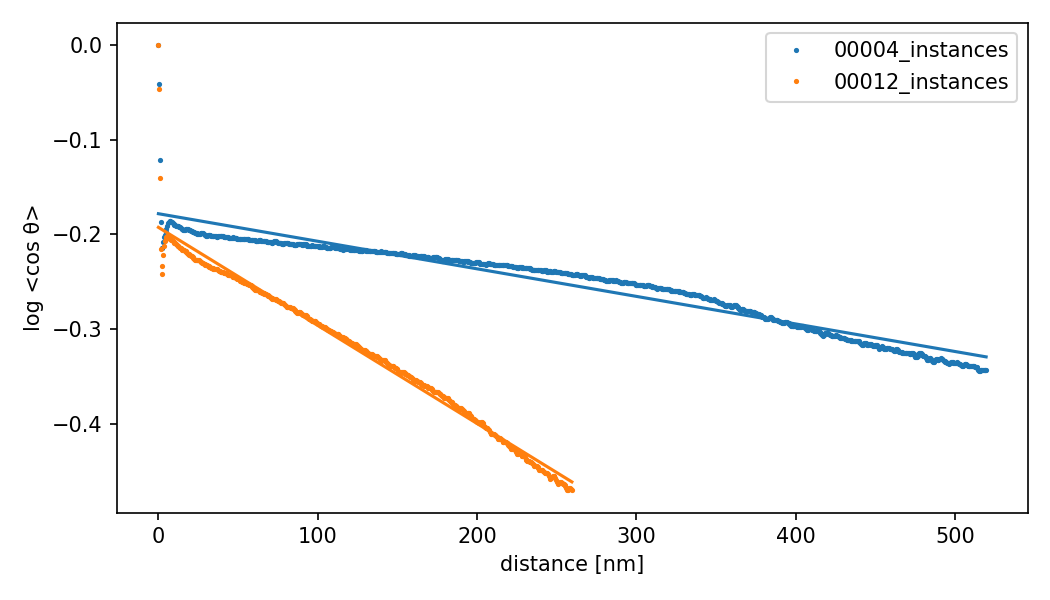
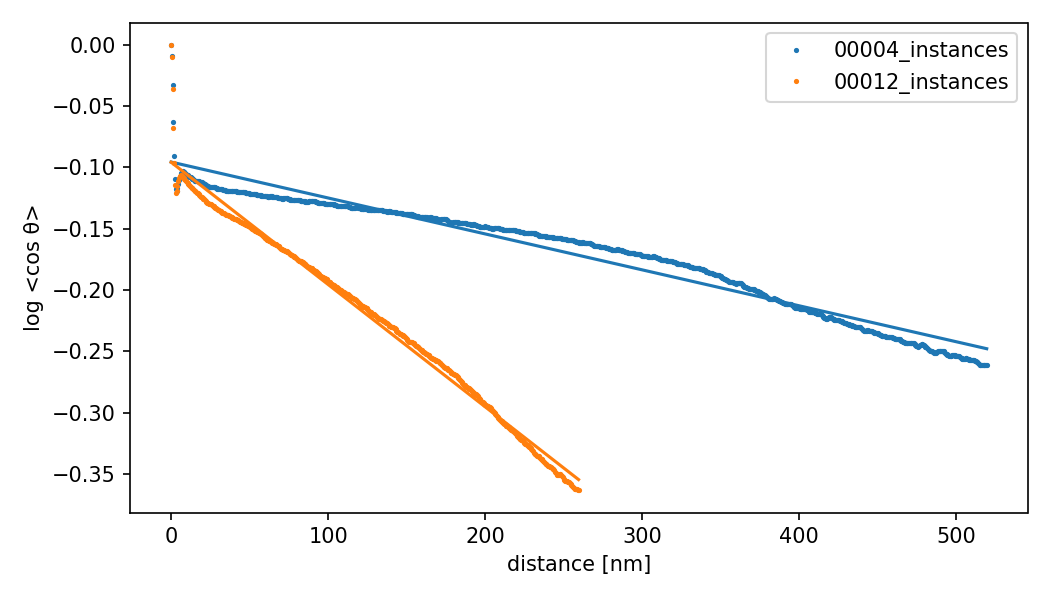
p_length results

diff --git a/experiments/persistence_length/persistence_length.py b/experiments/persistence_length/persistence_length.py
@@ -1,0 +1,201 @@
+"""Measure the persistence length of filaments.
+
+Based on TARDIS format for instance point clouds:  (ID, X [A], Y [A], Z [A]).
+
+Based on the method of Bäuerlein et al. (Cell 2017).
+Reference implementation: https://github.com/FJBauerlein/Huntington
+"""
+
+import argparse
+import csv
+from pathlib import Path
+
+import numpy as np
+import pandas as pd
+import matplotlib.pyplot as plt
+
+def parse_args():
+    parser = argparse.ArgumentParser()
+    parser.add_argument("--data_dir", type=str, required=True)
+    parser.add_argument("--results_dir", type=str, required=True)
+    parser.add_argument("--pattern", type=str, default="*_instances.csv")
+    parser.add_argument("--sampling_dist", type=float, default=5.0)
+    parser.add_argument("--min_length", type=float, default=350.0)
+    parser.add_argument("--tangent_window", type=int, default=5)
+    parser.add_argument("--tag", type=str, default=None)
+    return parser.parse_args()
+
+def load_filaments(csv_path):
+    """
+    Load filament instances CSV with columns:
+    ID, X [A], Y [A], Z [A]
+    """
+    df = pd.read_csv(csv_path)
+
+    filaments = []
+    for fid, group in df.groupby("ID"):
+        coords = group[["X", "Y", "Z"]].to_numpy(dtype=np.float64)
+
+        filaments.append(coords)
+
+    return filaments
+
+def resample_filaments(filaments, sampling_dist, min_length):
+    resampled = []
+    filament_lengths = []
+    for coords in filaments:
+        segment_lengths = np.linalg.norm(np.diff(coords, axis=0), axis=1)
+        s = np.concatenate([[0.0], np.cumsum(segment_lengths)])
+        if s[-1] < min_length:
+            continue
+        filament_lengths.append(s[-1])
+        
+        s_new = np.arange(0, s[-1], sampling_dist)
+
+        x_new = np.interp(s_new, s, coords[:, 0])
+        y_new = np.interp(s_new, s, coords[:, 1])
+        z_new = np.interp(s_new, s, coords[:, 2])
+
+        resampled.append(np.vstack([x_new, y_new, z_new]).T)
+
+    return resampled, np.array(filament_lengths)
+
+def unit_tangents(coords, window):
+    """Unit tangent per point, averaged over `window` adjacent points to reduce aliasing."""
+    t = np.gradient(coords, axis=0)
+    if window > 1:
+        kernel = np.ones(window) / window
+        t = np.column_stack([np.convolve(t[:, d], kernel, mode="same") for d in range(t.shape[1])])
+    norms = np.linalg.norm(t, axis=1, keepdims=True)
+    return t / np.where(norms == 0.0, 1.0, norms)
+
+
+def tangent_autocorr(filaments, max_lag=None, window=5):
+    tangents = [unit_tangents(c, window) for c in filaments if len(c) >= 2]
+
+    if max_lag is None:
+        max_lag = max(len(t) - 1 for t in tangents)
+
+    sums = np.zeros(max_lag + 1)
+    counts = np.zeros(max_lag + 1)
+    for t in tangents:
+        for k in range(min(max_lag, len(t) - 1) + 1):
+            dots = np.einsum("ij,ij->i", t[: len(t) - k], t[k:])
+            sums[k] += dots.sum()
+            counts[k] += dots.size
+
+    corr = np.full(max_lag + 1, np.nan)
+    valid = counts > 0
+    corr[valid] = sums[valid] / counts[valid]
+
+    return corr
+
+def fit_persistence_length(corr, sampling_dist):
+    """Fit log<cos θ> = ln(A) - s / Lp with a free intercept. Return (Lp in A, R², curve);
+    Lp NaN if degenerate. curve is (s, log<cos θ>, fitted line) for plotting."""
+    lags = np.arange(len(corr))
+    s = lags * sampling_dist
+    valid = np.isfinite(corr) & (corr > 0.0)
+    s = s[valid]
+    y = np.log(corr[valid])
+    if s.size < 2:
+        return np.nan, np.nan, None
+
+    slope, intercept = np.polyfit(s, y, 1)
+    yhat = slope * s + intercept
+    ss_tot = np.sum((y - np.mean(y)) ** 2)
+    r2 = 1.0 - np.sum((y - yhat) ** 2) / ss_tot if ss_tot > 0 else np.nan
+    lp = -1.0 / slope if slope < 0.0 else np.nan
+    return lp, r2, (s, y, yhat)
+
+
+def plot_fits(curves, out_path):
+    fig, ax = plt.subplots(figsize=(7, 4))
+    for sample, s, y, yhat in curves:
+        line = ax.plot(s / 10.0, y, ".", ms=3, label=sample)[0]
+        ax.plot(s / 10.0, yhat, "-", color=line.get_color())
+    ax.set_xlabel("distance [nm]")
+    ax.set_ylabel("log <cos θ>")
+    ax.legend()
+    fig.tight_layout()
+    fig.savefig(out_path, dpi=150)
+    plt.close(fig)
+
+
+def filament_length(coords):
+    if len(coords) < 2:
+        return 0.0
+    return float(np.linalg.norm(np.diff(coords, axis=0), axis=1).sum())
+
+
+def plot_length_distribution(lengths_by_sample, out_path):
+    fig, ax = plt.subplots(figsize=(7, 4))
+    for sample, lengths in lengths_by_sample.items():
+        lengths_nm = np.asarray(lengths, dtype=np.float64) / 10.0
+        ax.hist(lengths_nm, bins=60, histtype="step",
+                label=f"{sample} (n={len(lengths_nm)})")
+    ax.set_xlabel("filament length [nm]")
+    ax.set_ylabel("count")
+    ax.legend()
+    fig.tight_layout()
+    fig.savefig(out_path, dpi=150)
+    plt.close(fig)
+
+
+def main():
+    args = parse_args()
+    results_dir = Path(args.results_dir)
+    results_dir.mkdir(parents=True, exist_ok=True)
+
+    data_dir = Path(args.data_dir)
+    data_paths = sorted(data_dir.glob(args.pattern))
+    rows = []
+    curves = []
+    lengths_by_sample = {}
+    for data_path in data_paths:
+        filaments = load_filaments(data_path)
+        lengths_by_sample[data_path.stem] = [filament_length(c) for c in filaments]
+
+        filaments, lengths = resample_filaments(filaments, args.sampling_dist, args.min_length)
+        if len(filaments) == 0:
+            print(f"{data_path.name}: no filaments above the min length of {args.min_length:.0f} A.")
+            continue
+
+        p90 = float(np.percentile(lengths, 90))
+        max_lag = int(p90 / args.sampling_dist)
+
+        corr = tangent_autocorr(filaments, max_lag, args.tangent_window)
+        lp, r2, curve = fit_persistence_length(corr, args.sampling_dist)
+        if curve is not None:
+            curves.append((data_path.stem, *curve))
+
+        rows.append({
+            "sample": data_path.stem,
+            "n_filaments": len(filaments),
+            "mean_length": float(np.mean(lengths)),
+            "p90_length": p90,
+            "persistence_length": lp,
+            "r_squared": r2,
+        })
+        lp_um = lp / 10000.0 if np.isfinite(lp) else np.nan
+        print(f"{data_path.name}: {len(filaments)} filaments, Lp = {lp_um:.2f} um, R^2 = {r2:.3f}")
+
+    suffix = f"_{args.tag}" if args.tag else ""
+    if lengths_by_sample:
+        plot_length_distribution(lengths_by_sample, results_dir / f"length_distribution{suffix}.png")
+
+    if len(rows) == 0:
+        print("No samples with filaments above the min length.")
+        return
+
+    csv_path = results_dir / f"persistence_length{suffix}.csv"
+    with open(csv_path, "w", newline="") as f:
+        writer = csv.DictWriter(f, fieldnames=list(rows[0].keys()))
+        writer.writeheader()
+        writer.writerows(rows)
+
+    plot_fits(curves, results_dir / f"persistence_length{suffix}.png")
+
+
+if __name__ == "__main__":
+    main()

diff --git a/experiments/persistence_length/README.md b/experiments/persistence_length/README.md
@@ -9,10 +9,8 @@ Both methods read the instance point clouds written by `predict_actin_instances.
 CSV per tomogram (`<tomogram>_instances.csv`) with columns `ID,X,Y,Z`:
 
 - `ID` is a connected-component label; one filament per `ID`.
-- `X,Y,Z` are skeleton graph vertex coordinates in `--pixel_size` units (Angstrom; 10 A for
-  deepict), not raw segmentation voxels.
-- Rows within an `ID` are ordered along the filament, so consecutive rows are adjacent
-  skeleton points and tangents follow the contour.
+- `X,Y,Z` are skeleton graph vertex coordinates in `--pixel_size` units (10 A)
+- Rows within an `ID` are ordered along the filament.
 
 `predict_actin_instances.py` builds the clouds from the binary segmentation by teasar
 skeletonization, `clean_filament_graph` (split, prune, join), and `connected_components`.
@@ -31,9 +29,10 @@ Method 2 — robust version (`pipeline_scripts/analysis/persistence_length.py`):
 
 - All-pairs autocorrelation: average the signed tangent dot product over every point pair at
   each separation.
+- The tangent at each point is averaged over `--tangent_window` adjacent points (default 5)
+  to reduce aliasing.
 - Fits `log<cos θ> = ln(A) - s / Lp` with a free intercept, up to the P90 filament length
-  (via `max_lag`); the intercept absorbs the `s = 0` decorrelation from skeleton
-  discretization.
+  (via `max_lag`).
 
 Both resample to `--sampling_dist` (5 A) and drop filaments shorter than `--min_length`
 (350 A = 35 nm).
@@ -59,28 +58,28 @@ Cutoff 350 A (35 nm):
 
 | sample | n    | Method 1 Lp | R²    | Method 2 Lp | R²    |
 |--------|------|-------------|-------|-------------|-------|
-| 00004  | 1301 | 1.84        | -19.8 | 3.44        | 0.932 |
-| 00012  | 1834 | 0.69        | -18.1 | 0.97        | 0.975 |
+| 00004  | 1301 | 1.84        | -19.8 | 3.41        | 0.953 |
+| 00012  | 1834 | 0.69        | -18.1 | 1.00        | 0.987 |
 
 Cutoff 2000 A (200 nm):
 
 | sample | n   | Method 1 Lp | R²   | Method 2 Lp | R²    |
 |--------|-----|-------------|------|-------------|-------|
-| 00004  | 500 | 2.87        | -6.8 | 2.73        | 0.966 |
-| 00012  | 309 | 1.39        | -3.7 | 0.92        | 0.994 |
+| 00004  | 500 | 2.87        | -6.8 | 2.71        | 0.971 |
+| 00012  | 309 | 1.39        | -3.7 | 0.94        | 0.995 |
 
 
 ### Plots
 
 Both fit plots share axes (log <cos θ> vs distance in nm), so they are directly comparable.
 
-Method 2 (free intercept):
-
-![Method 2 fit](results/persistence_length_deepict.png)
-
-Method 1 (through origin, Bäuerlein):
+Method 1 (Bäuerlein):
 
 ![Method 1 fit](results/persistence_length_bauerlein_deepict.png)
+
+Method 2 (robust):
+
+![Method 2 fit](results/persistence_length_deepict.png)
 
 Filament length distribution:
 
@@ -88,12 +87,12 @@ Filament length distribution:
 
 ## Interpretation
 
-Method 2 (free-intercept) fits well at both cutoffs (R² 0.93 to 0.99). Method 1
-(through-origin) fits poorly (negative R²); it improves at the 2000 A cutoff but stays below
+Method 2 (robust) fits well at both cutoffs (R² 0.95 to 0.99). Method 1
+(Bäuerlein) fits poorly (negative R²); it improves at the 2000 A cutoff but stays below
 zero. Forcing the intercept to 0 does not match the measured decay, so the Method 1 Lp is
 not trustworthy on this data.
 
-Method 2 gives 00004 Lp 3.44 µm at the 350 A cutoff and 2.73 µm at 2000 A, near the reported
+Method 2 gives 00004 Lp 3.41 µm at the 350 A cutoff and 2.71 µm at 2000 A, near the reported
 stress-fiber value of 3.7 µm; 00012 gives about 0.9 to 1.0 µm. Lp exceeds the longest
 filaments (about 1.8 µm), so the fit extrapolates beyond the measured contour range. The
 high R² still makes Method 2 the more reliable estimate.
